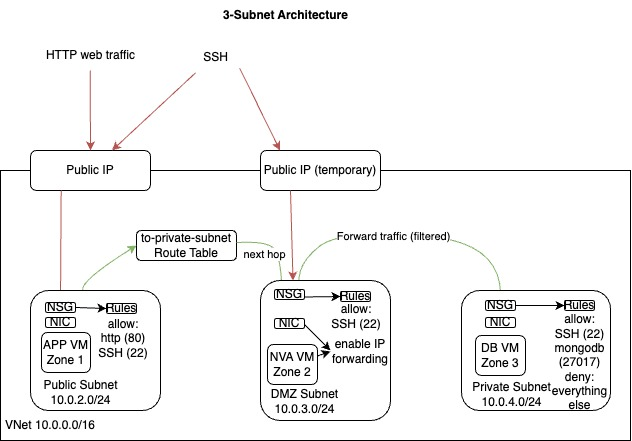
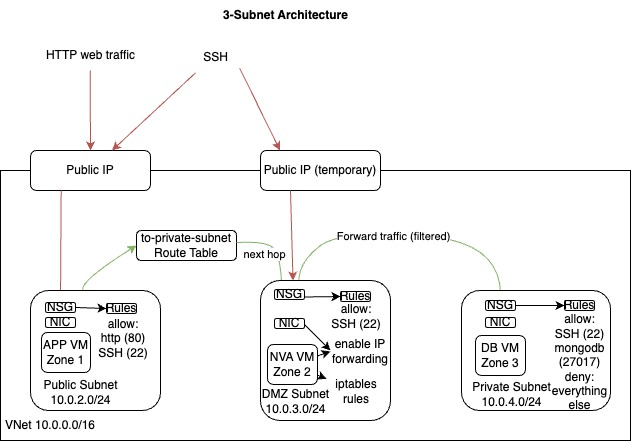
Add VMSS and automation diagrams. Add minor adjustments.

diff --git a/mongo_db_deployment/README.md b/mongo_db_deployment/README.md
@@ -232,7 +232,8 @@ sudo systemctl status mongod
         pm2 start app.js
         ```
 
-4. Confirm app and db posts load up.
+4. Confirm app and db posts load up. Start ping.
+    - SSH into the app vm and start ping in the background to the db.
 
 5. Create the NVA vm
     - Name: tech501-sameem-in-3-subnet-sparta-app-nva
@@ -254,8 +255,9 @@ sudo systemctl status mongod
       - name: public-subnet
       - subnet address range: 10.0.2.0/24
 
-    The configuration above forces traffic to route through the NVA, rather than direct to the db vm. See app terminal to verify pings are not being received by db once traffic is re-routed.
-
+    - The configuration above forces any traffic leaving the public subnet and destined for the private subnet e.g. to the db VM, to route through the NVA.
+    - See app terminal to verify pings have stopped being sent. This is because the traffic is now redirected to the NVA so is not being received by the db.
+  
 7. Enable IP forwarding on NVA
   
     - Currently NVA is not doing anything with the traffic it is receiving.
@@ -275,7 +277,7 @@ sudo systemctl status mongod
     - `sudo sysctl -p`, reload config file, should show forwarding status as 1 now.
 
     - Re-check app vm terminal, ping to the db vm should have resumed.
-    - So now traffic from app vm is routing through the nva to reach the db.
+    - So now NVA is allowing the app vm traffic through to the db.
   
 8. Set IP tables rules (firewalls rules)
 
@@ -370,7 +372,7 @@ sudo systemctl status mongod
   
 9. Add further db vm nsg rules
 
-   - We can add two further nsg rules for the db vm:
+   - We can add two further nsg rules for the db vm.
      - Allow mongodb traffic
      - Deny all other traffic
 

diff --git a/autoscaling/README.md b/autoscaling/README.md
@@ -22,11 +22,11 @@
 
 ## Benefits of Autoscaling
 
-- Worse to better: **No monitoring** -> **dashboard** -> **trigger alert** -> **Autoscaling**.
+- Worse to better:
 
-INSERT DIAGRAM OF THE ABOVE.
+    **No monitoring** -> **Dashboards** -> **Alerts** -> **Autoscaling**.
 
-- Ultimately autoscaling is to prevent downtime of our application and improve user experience as traffic is load balanced between our app instances.
+- Autoscaling is used to prevent downtime of our application and improve user experience as traffic is load balanced between our app instances.
 
 ## Autoscaling in Azure
 
@@ -121,6 +121,8 @@ pm2 start app.js
 - Tags
   - Owner: Sameem
 
+![VMSS/LB Architecture](<../images/vmss_lb architecture.jpg>)
+
 ### Reimaging
 
 - The **Reimage** option in the Virtual Machine Scale Sets (VMSS) instances tab allows you to reset one or more virtual machine instances to their original state using the base image specified in the scale set configuration.
@@ -133,6 +135,8 @@ pm2 start app.js
 - **Usage**: Typically used for maintenance, troubleshooting, or to revert changes that may have caused instability.
 
 - Reimaging is a useful feature for maintaining the health and consistency of your VM instances within a scale set.
+
+- In our case, because we have used **User Data** which is not persistent between VM restarts, need to **Reimage** after any VM restarts for the app to run as expected.
 
 ### Health Check
 

diff --git a/azure_monitor/README.md b/azure_monitor/README.md
@@ -51,3 +51,5 @@ ab -n 10000 -c 200 http://<public_ip_address>/
 - Also observe the effects of our requests in the dashboard, although due to the simplicity of our application, the spikes may be minimal.
 
 ## Alarms
+
+- Can configure alarms to alert admin based on pre-defined conditions e.g. if CPU usage > 80%, send a text message notification.

diff --git a/app_vm_initial_setup/README.md b/app_vm_initial_setup/README.md
@@ -2,6 +2,8 @@
 
 ## Levels of Automation
 
+![Levels of Automation](<../images/levels of automation.jpg>)
+
 ### Manual
 
 - **Description**: Involves manually installing dependencies and configuring the environment by connecting to the VM via SSH.
